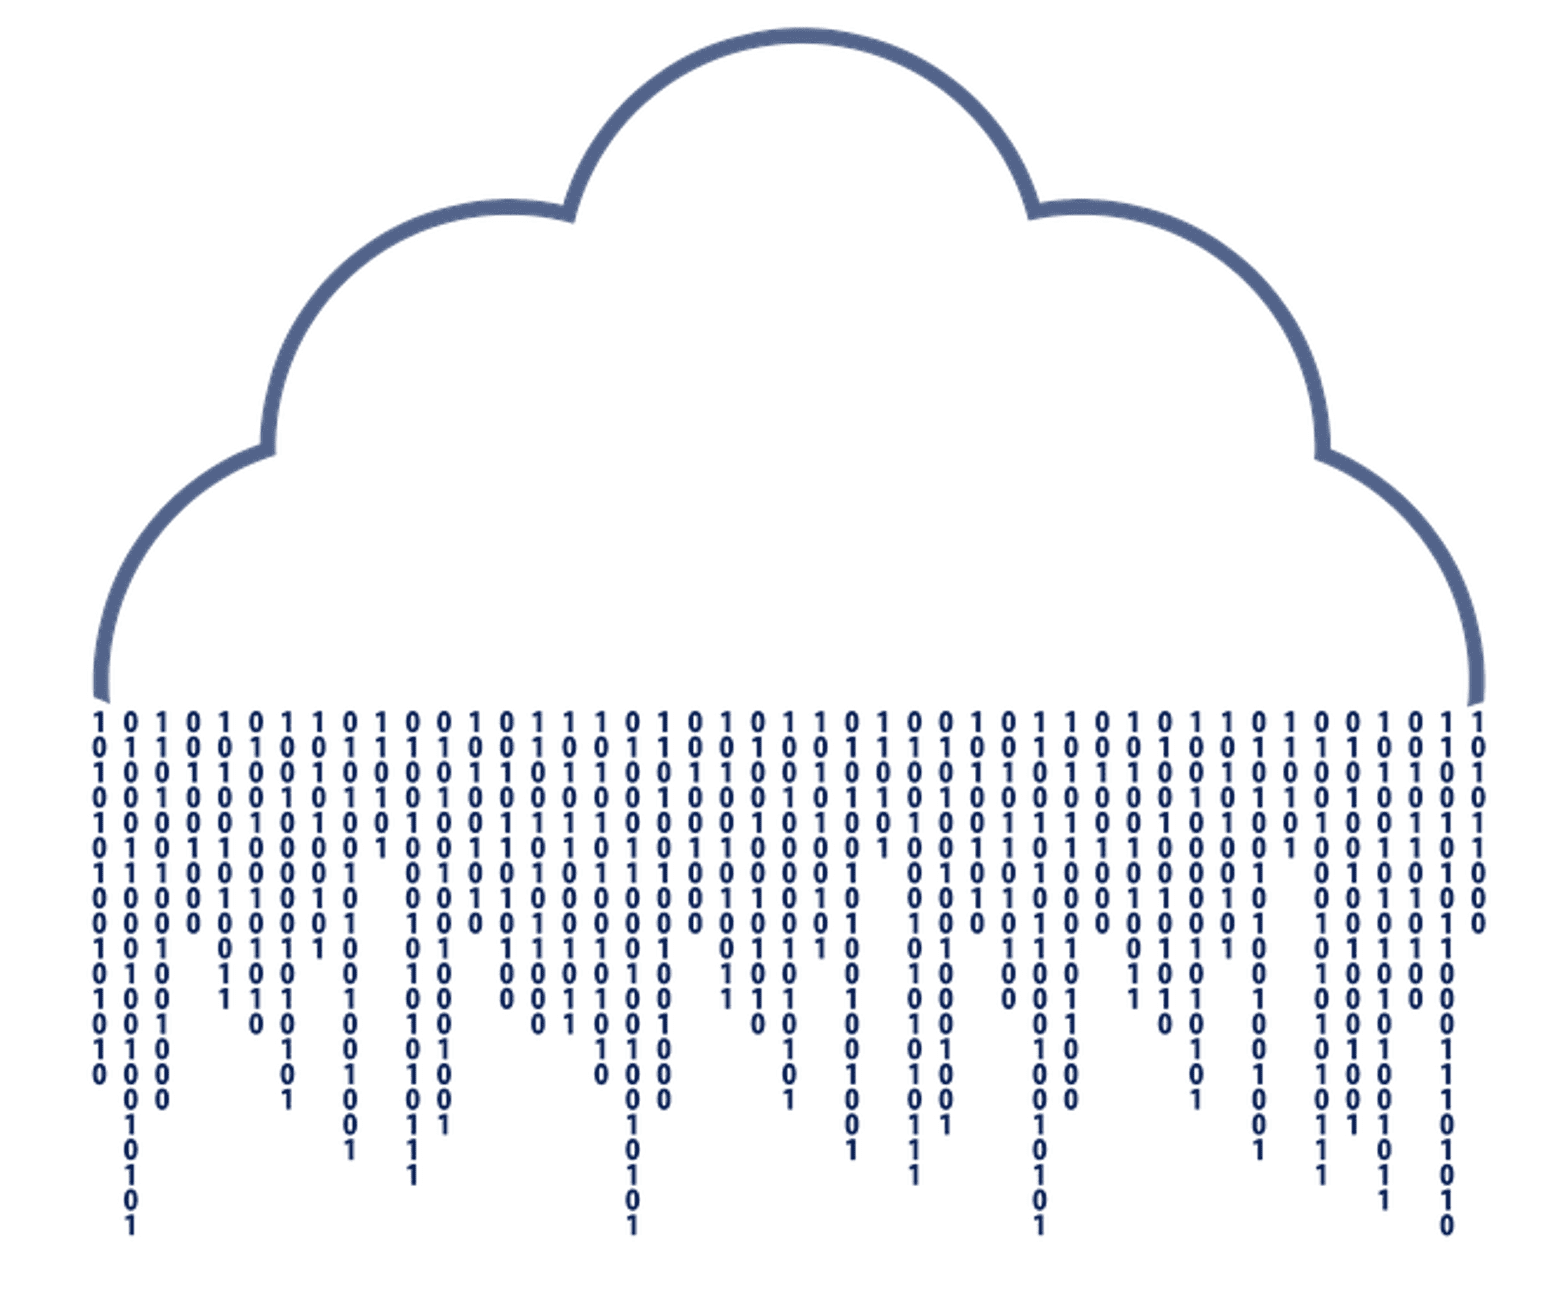
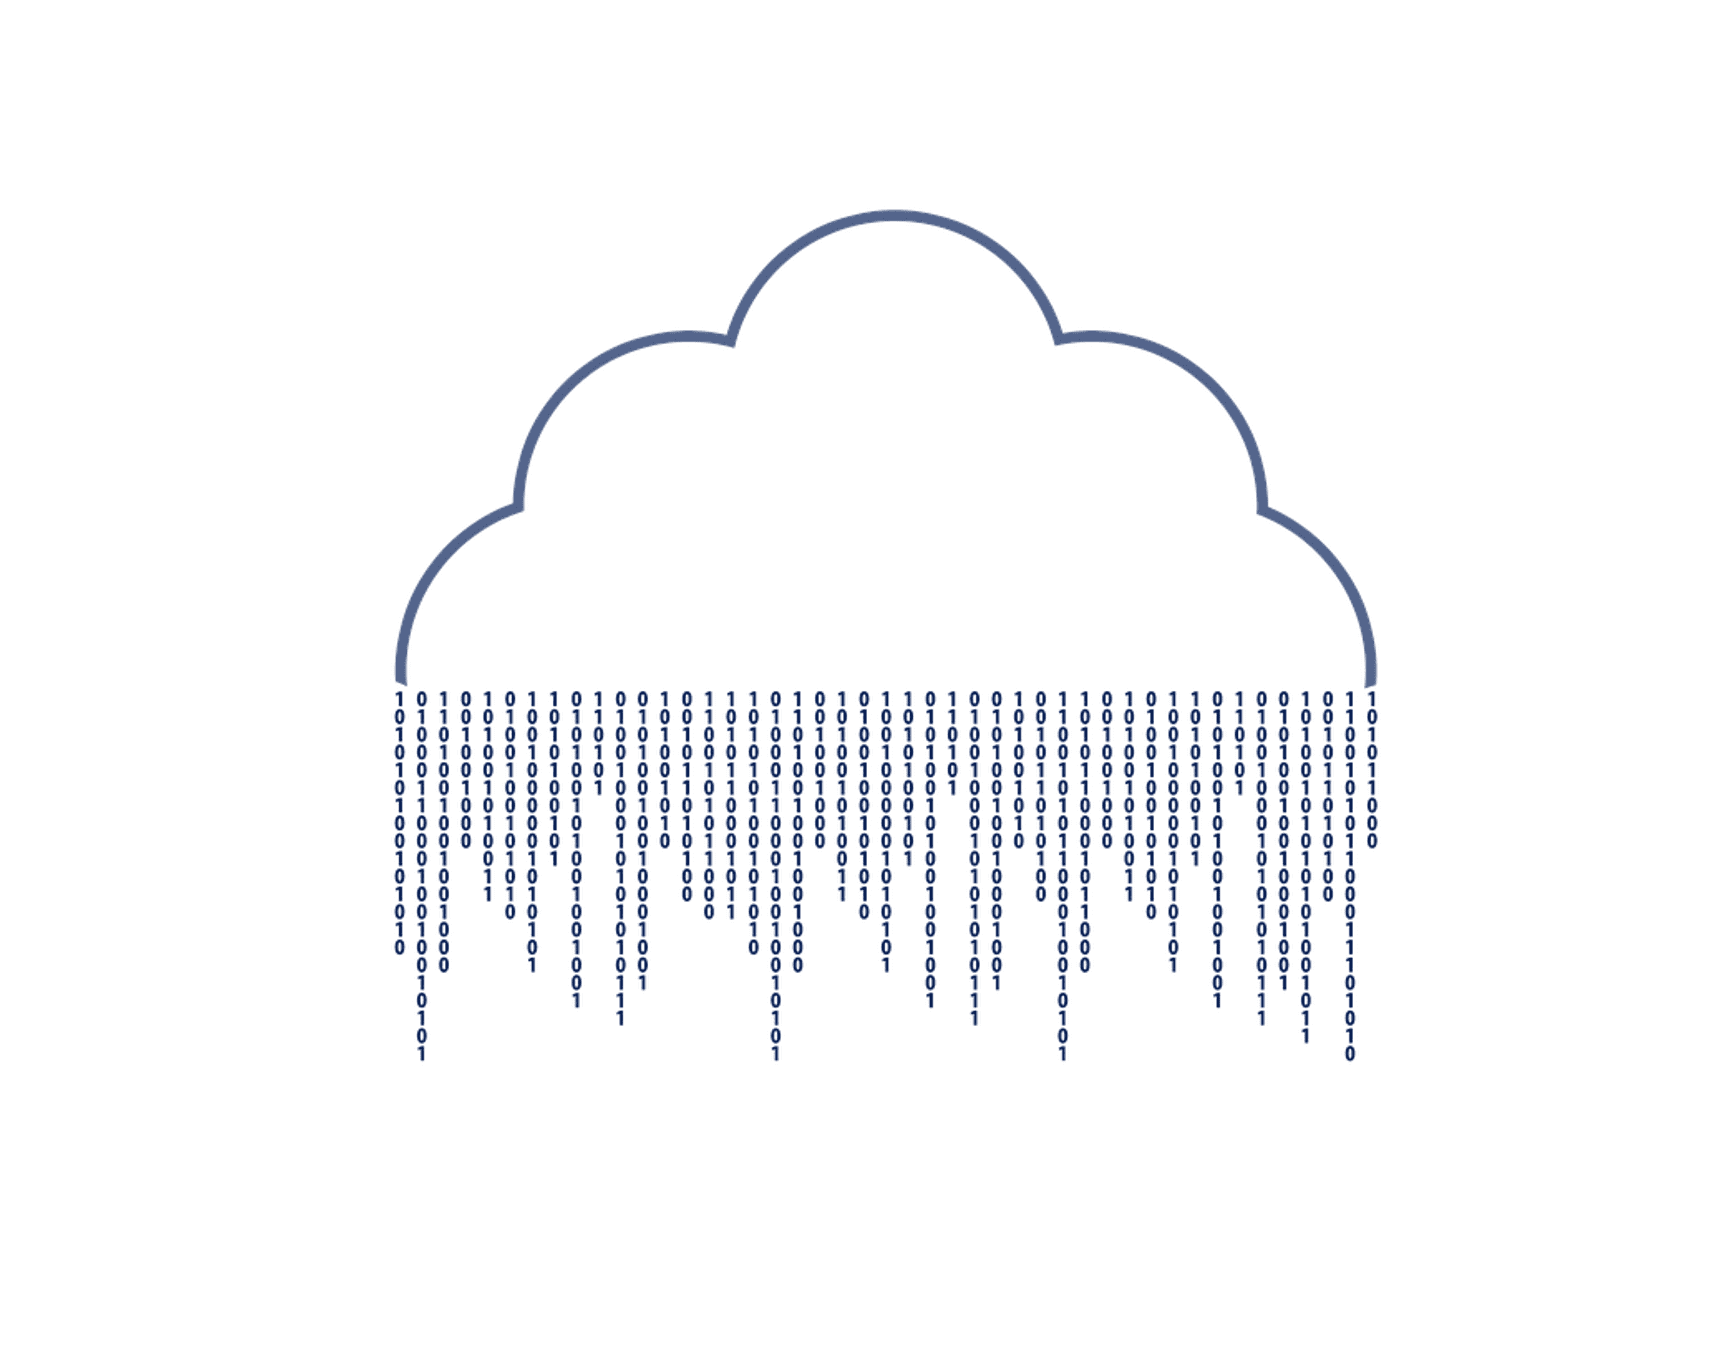
changed cloud bits size

diff --git a/programming/_posts/2022-08-25-learning-cloud-computing.md b/programming/_posts/2022-08-25-learning-cloud-computing.md
@@ -3,7 +3,7 @@ layout: post
 title: Mastering Cloud Computing
 image: /assets/img/blog/cloud_bits.png
 accent_image: 
-  background: url('/assets/img/blog/cloud_bits.png') center/cover
+  background: #url('/assets/img/blog/cloud_bits.png') center/cover
   overlay: false
 accent_color: '#ccc'
 theme_color: '#ccc'
